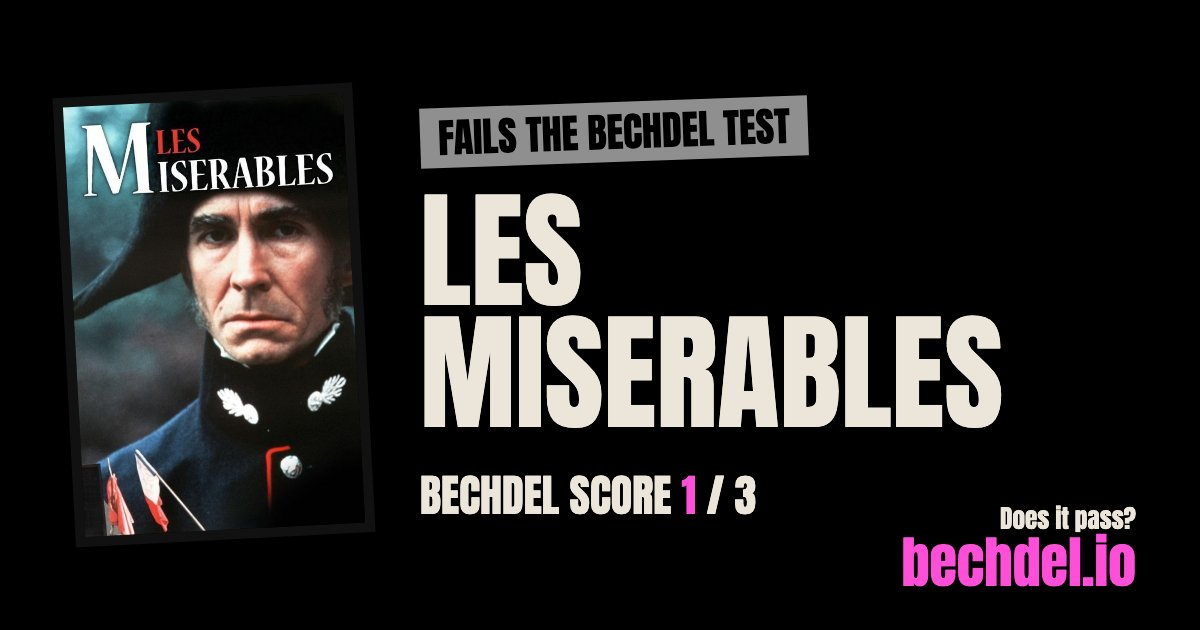
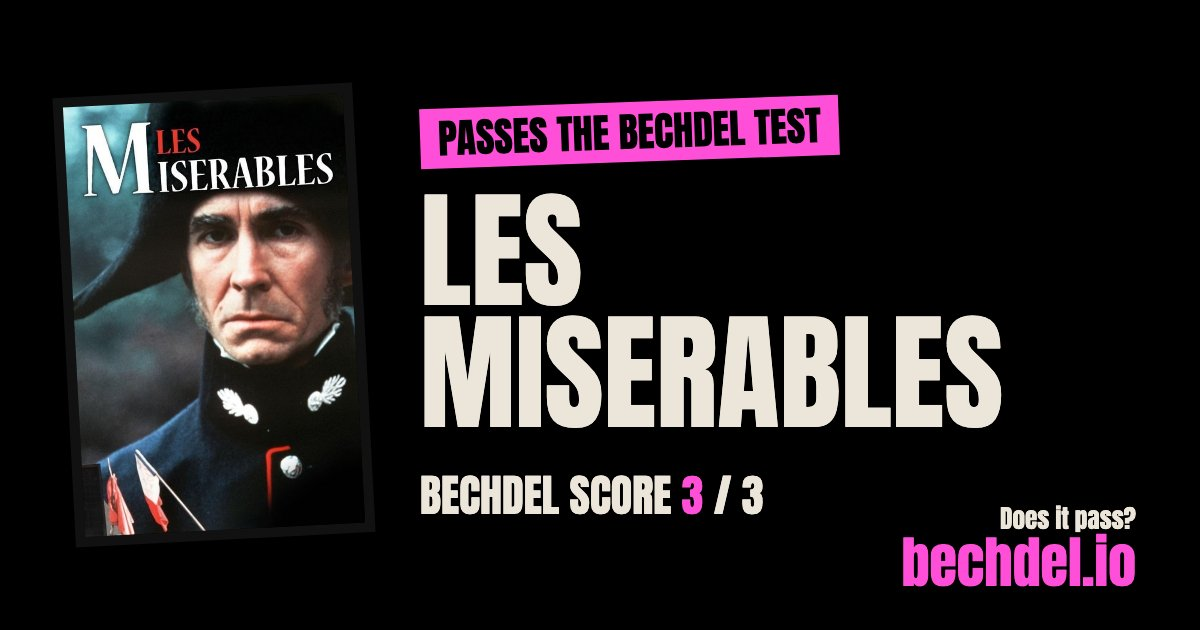
fix: An honorific before a name beats a cast role that only shares the name, so MRS. BONASERA, MADAME THENARDIER and nine other wives and mothers count as women, and MR. KAREN as a man. 12 films re-analyzed: Les Miserables (1978) and Inherent Vice now pass, The Rum Diary scores 2; their share cards 

Changed region(s): [[0.3392, 0.1508, 0.7092, 0.2714], [0.555, 0.754, 0.6475, 0.8143]]

diff --git a/src/genders.js b/src/genders.js
@@ -25,6 +25,8 @@ const MAN_WORDS = new Set([
 	'BRO', 'BUDDY', 'GUNMAN', 'FOREMAN', 'WATCHMAN', 'MAILMAN', 'MILKMAN', 'HANDYMAN', 'MIDDLEMAN', 'BAGMAN', 'HITMAN',
 	'NEWSMAN', 'CAMERAMAN', 'CLERGYMAN', 'CRAFTSMAN', 'FRONTMAN', 'HENCHMAN', 'HORSEMAN', 'LAWMAN', 'MADMAN', 'SNOWMAN', 'STRONGMAN',
 ]);
+// Titles that only go before a name, and always say the person's gender
+const HONORIFICS = new Set(['MRS', 'MR', 'MS', 'MISS', 'MADAME', 'MADAM', 'MME', 'MLLE', 'MONSIEUR', 'SENORA', 'SENORITA', 'SENOR', 'SIGNORA', 'SIGNOR', 'FRAU', 'FRAULEIN', 'HERR', 'MISTER']);
 // Words that describe rather than name: "YOUNG JANE", "OLD MAN", "DR. GRANT"
 const DESCRIPTORS = new Set([
 	'YOUNG', 'YOUNGER', 'OLD', 'OLDER', 'LITTLE', 'BIG', 'TEEN', 'TEENAGE', 'ADULT', 'BABY', 'KID', 'KIDS', 'CHILD', 'THE', 'A', 'AN',
@@ -120,10 +122,15 @@ const resolveSpeakers = (speakers, cast, actionText, genderOverrides = {}) => {
 		let gender = null;
 		let source = null;
 
-		const fullMatch = full.get(speaker) ?? full.get(nameWords.join(' '));
 		const titleWords = w.filter(x => WOMAN_WORDS.has(x) || MAN_WORDS.has(x));
 		const titleGender = titleWords.length && titleWords.every(x => WOMAN_WORDS.has(x)) ? 'w'
 			: titleWords.length && titleWords.every(x => MAN_WORDS.has(x)) ? 'm' : null;
+		// An honorific before a name beats a role matched on that name alone: MRS. DALLAS isn't Dallas.
+		// Only before a name ("CELIE MISTER" is two cues run together), and not in "MR. & MRS. X"
+		const honorific = w.slice(0, -1).find(x => HONORIFICS.has(x));
+		const honorificGender = honorific && !/[&/]|\bAND\b/.test(speaker) ? (WOMAN_WORDS.has(honorific) ? 'w' : 'm') : null;
+		const nameMatch = full.get(nameWords.join(' '));
+		const fullMatch = full.get(speaker) ?? (honorificGender && nameMatch && nameMatch !== honorificGender ? undefined : nameMatch);
 		const partGenders = new Set(nameWords.map(x => part.get(x)).filter(g => g !== undefined));
 
 		if (fullMatch) {

diff --git a/src/screenplay.spec.js b/src/screenplay.spec.js
@@ -135,6 +135,17 @@ describe('resolveSpeakers', () => {
 		// Mr. and Mrs. Smith share the name, so SMITH alone stays unknown
 		expect(resolved.get('SMITH').gender).toBeNull();
 	});
+
+	it("trusts an honorific over a role that only shares the name, but not one tacked on after a name", () => {
+		const castWithCelie = [...cast, { character: 'Celie', gender: 1 }];
+		const resolved = resolveSpeakers(['MRS. DALLAS', 'MR. LAMBERT', 'CELIE MISTER', 'MRS. SMITH'], castWithCelie, action);
+		expect(resolved.get('MRS. DALLAS').gender).toBe('w');
+		expect(resolved.get('MR. LAMBERT').gender).toBe('m');
+		// Two cues the parser ran together: Mister is a name here, so Celie's match stands
+		expect(resolved.get('CELIE MISTER').gender).toBe('w');
+		// The cast lists her by the full title, which still wins
+		expect(resolved.get('MRS. SMITH')).toMatchObject({ gender: 'w', source: 'cast' });
+	});
 });
 
 describe('scoreBechdel', () => {
